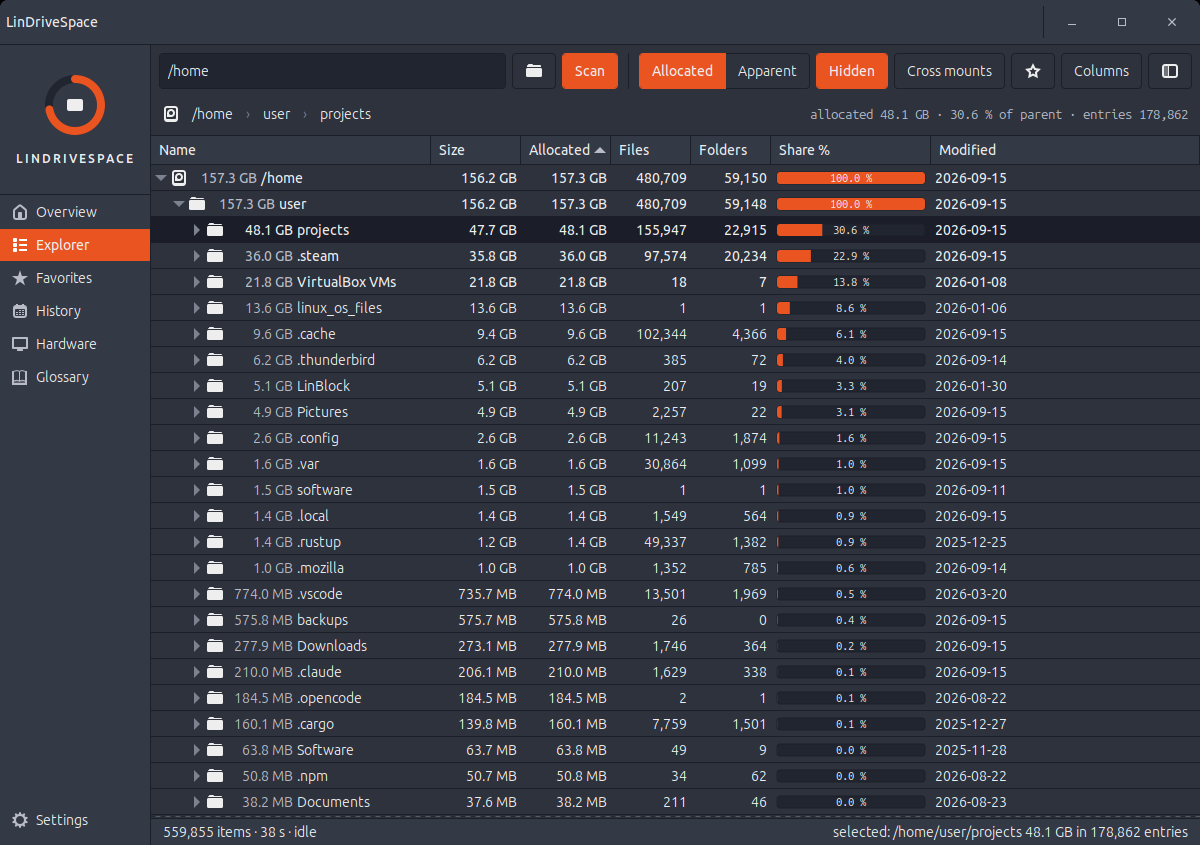
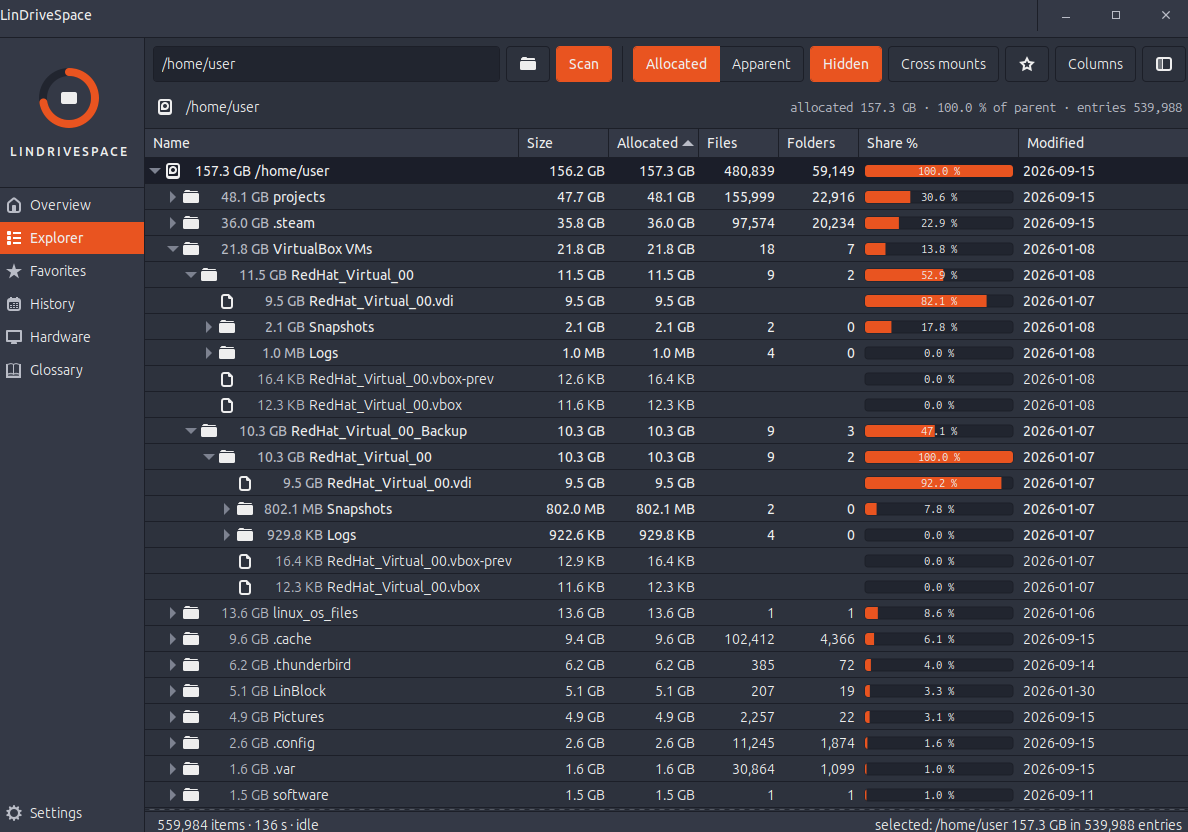
README: user-supplied Explorer and Analysis screenshots
Claude-Session: https://claude.ai/code/session_01Roqywc8y1DLV39FFJuyqcP

diff --git a/changelog.md b/changelog.md
@@ -70,3 +70,4 @@
 | 2026-09-16T00:40:00 | Header shows only the app name (user: the page is evident from the sidebar); sidebar logo area gets more space between the mark and the name, name bold. README hero is now the Explorer screenshot; Overview screenshot sits under its section. Screenshots re-captured. |
 | 2026-09-16T01:00:00 | Fix (D1): the shared UI test window now uses its own config/cache/log dirs and an explicit Settings path; the test suite had written a column layout into the real ~/.config/lindrivespace/settings.json (found while re-capturing screenshots). Real settings restored to default column layouts, 64 KB threshold, 1200×800. |
 | 2026-09-16T01:30:00 | Licence (user): PolyForm Noncommercial 1.0.0 in LICENSE.md with a friendly plain-words preamble and the Required Notice; README License section, pyproject license + license-files, AppStream project_license, .deb copyright file and installer updated. |
+| 2026-09-16T02:00:00 | README (user): Explorer hero and Analysis screenshots replaced with the user's own captures (drilled into VirtualBox VMs; treemap panel), trimmed of the capture frame. |

diff --git a/README.md b/README.md
@@ -4,7 +4,7 @@
 See every mount and partition at a glance, then drill into folders and files to find out exactly
 what is eating your disk — TreeSize / WizTree style, with Linux-correct numbers.
 
-![Explorer](docs/screenshots/explorer.png)
+![Explorer — drilling into VirtualBox VMs under /home/user](docs/screenshots/explorer.png)
 
 > Status: **v0.1 — installable** (2026-09). Every screen below is built and packaged (`.deb`,
 > installer script, menu entry); see [Install and run](#install-and-run) and the [Roadmap](#roadmap).
@@ -59,7 +59,7 @@ Ubuntu's typeface and colour language.
 - **File types** grouped by class (video, image, archive, package cache, log, …).
 - **Age** histogram: allocated bytes by last-modified bucket (7 d, 30 d, 90 d, 1 y, older).
 
-![Analysis — Explorer with the treemap panel open](docs/screenshots/analysis.png)
+![Analysis — the same view with the treemap panel open](docs/screenshots/analysis.png)
 
 ### Actions and export
 - Open in file manager, open terminal here, copy path, move to trash (with confirmation).
